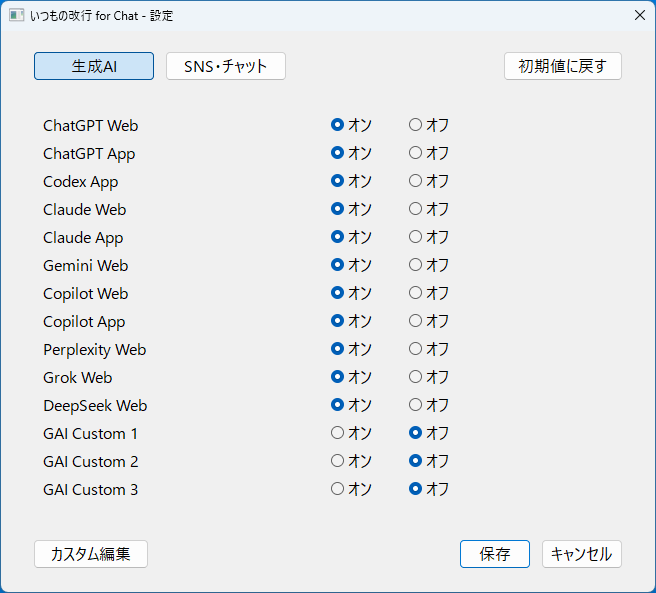
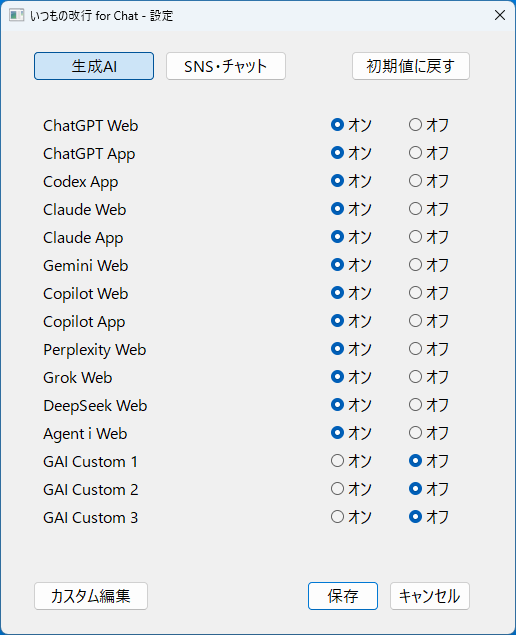
Add Agent i preset and semver release

diff --git a/itsumono_kaigyo.py b/itsumono_kaigyo.py
@@ -15,8 +15,7 @@ from pathlib import Path
 
 APP_NAME = "いつもの改行 for Chat"
 APP_NAME_EN = "LineBuddy for Chat"
-APP_VERSION = "20260628-144610"
-APP_BUILD_DATETIME = "2026-06-28 14:46:10 +09:00"
+APP_VERSION = "v1.0.0"
 DEVELOPER_NAME = "ぶんじカンパニー"
 DEVELOPER_NAME_EN = "Bunji Company"
 DEVELOPER_URL = "https://bunjicompany.com/"
@@ -741,6 +740,7 @@ BUILTIN_TARGETS = [
     TargetDefinition("perplexity_web", "Perplexity Web", "生成AI", "Web", ACTION_SHIFT_ENTER, MODE_ENTER, window_title_keywords=("perplexity",), url_keywords=("perplexity.ai",)),
     TargetDefinition("grok_web", "Grok Web", "生成AI", "Web", ACTION_SHIFT_ENTER, MODE_ENTER, window_title_keywords=("grok",), url_keywords=("grok.com", "x.com/i/grok")),
     TargetDefinition("deepseek_web", "DeepSeek Web", "生成AI", "Web", ACTION_SHIFT_ENTER, MODE_ENTER, window_title_keywords=("deepseek",), url_keywords=("deepseek.com",)),
+    TargetDefinition("agent_i_web", "Agent i Web", "生成AI", "Web", ACTION_SHIFT_ENTER, MODE_ENTER, window_title_keywords=("agent i",), url_keywords=("search.yahoo.co.jp/chat",)),
     TargetDefinition("line_app", "LINE App", "SNS・チャット", "App", ACTION_SHIFT_ENTER, MODE_ENTER, processes=("line.exe",)),
     TargetDefinition("x_web", "X Web", "SNS・チャット", "Web", ACTION_SHIFT_ENTER, MODE_OFF, window_title_keywords=("x.com", "twitter", "/ x", "- x"), url_keywords=("x.com", "twitter.com")),
     TargetDefinition("slack_web", "Slack Web", "SNS・チャット", "Web", ACTION_SHIFT_ENTER, MODE_OFF, window_title_keywords=("slack",), url_keywords=("slack.com",)),
@@ -854,8 +854,55 @@ def configured_targets(target_definition_configs, custom_target_configs):
     if isinstance(target_definition_configs, list):
         parsed_targets = parse_target_configs(target_definition_configs)
         if parsed_targets:
-            return parsed_targets
-    return list(BUILTIN_TARGETS) + parse_custom_targets(custom_target_configs)
+            targets_by_key = {target.key: target for target in parsed_targets}
+            builtin_keys = {target.key for target in BUILTIN_TARGETS}
+            default_builtin_targets = parse_target_configs([
+                target_definition_config(target)
+                for target in BUILTIN_TARGETS
+            ])
+            return [
+                targets_by_key.get(target.key, target)
+                for target in default_builtin_targets
+            ] + [
+                target for target in parsed_targets
+                if target.key not in builtin_keys
+            ]
+    return parse_target_configs([
+        target_definition_config(target)
+        for target in BUILTIN_TARGETS
+    ]) + parse_custom_targets(custom_target_configs)
+
+
+def default_builtin_target_definition_configs():
+    return [
+        target_definition_config(target)
+        for target in BUILTIN_TARGETS
+    ]
+
+
+def merge_builtin_target_definition_configs(target_definition_configs):
+    if not isinstance(target_definition_configs, list):
+        target_definition_configs = []
+    source_items = json.loads(json.dumps(target_definition_configs))
+    builtin_keys = {target.key for target in BUILTIN_TARGETS}
+    existing_by_key = {}
+    for item in source_items:
+        if not isinstance(item, dict):
+            continue
+        key = str(item.get("key", "")).strip()
+        if key and key not in existing_by_key:
+            existing_by_key[key] = item
+    merged = []
+    for item in default_builtin_target_definition_configs():
+        merged.append(existing_by_key.get(item["key"], item))
+    for item in source_items:
+        if not isinstance(item, dict):
+            merged.append(item)
+            continue
+        key = str(item.get("key", "")).strip()
+        if key not in builtin_keys:
+            merged.append(item)
+    return merged
 
 
 def target_definition_config(target):
@@ -907,7 +954,7 @@ def default_custom_target_configs():
 
 
 def default_target_definitions_config():
-    return [target_definition_config(target) for target in BUILTIN_TARGETS] + default_custom_target_configs()
+    return default_builtin_target_definition_configs() + default_custom_target_configs()
 
 
 def mode_options_for_target(target):
@@ -989,7 +1036,7 @@ def load_config():
     if not isinstance(loaded, dict):
         loaded = {}
     if config_exists:
-        target_definition_configs = loaded.get("target_definitions", [])
+        target_definition_configs = merge_builtin_target_definition_configs(loaded.get("target_definitions", []))
         custom_target_configs = loaded.get("custom_targets", [])
     else:
         target_definition_configs = default_target_definitions_config()
@@ -1012,7 +1059,7 @@ def load_config():
                 config["targets"][key] = internal_mode_from_config_for_target(target, mode)
     for target in TARGETS:
         config["targets"][target.key] = normalize_mode_for_target(target, config["targets"].get(target.key, target.default_mode))
-    if not config_exists:
+    if not config_exists or target_definition_configs != loaded.get("target_definitions", []):
         try:
             save_config(config)
         except OSError:
@@ -2174,16 +2221,14 @@ class Win32App:
             message = (
                 f"{APP_NAME_EN}\n"
                 f"Developed by {DEVELOPER_NAME_EN}\n\n"
-                f"Version: {APP_VERSION}\n"
-                f"Build date: {APP_BUILD_DATETIME}"
+                f"Version: {APP_VERSION}"
             )
             title = f"{APP_NAME_EN} - About"
         else:
             message = (
                 f"{APP_NAME}\n"
                 f"Developed by {DEVELOPER_NAME}\n\n"
-                f"バージョン: {APP_VERSION}\n"
-                f"ビルド日時: {APP_BUILD_DATETIME}"
+                f"バージョン: {APP_VERSION}"
             )
             title = f"{APP_NAME} - バージョン情報"
         user32.MessageBoxW(self.hwnd, message, title, MB_OK)
@@ -2373,8 +2418,8 @@ class Win32App:
             WS_OVERLAPPED | WS_CAPTION | WS_SYSMENU,
             CW_USEDEFAULT,
             CW_USEDEFAULT,
-            670,
-            600,
+            530,
+            642,
             self.hwnd,
             None,
             self.hinstance,
@@ -2401,14 +2446,14 @@ class Win32App:
                 CONTROL_SETTINGS_TAB_BASE + index,
             )
             self.settings_controls[f"tab_{index}"] = tab
-        self.settings_controls["reset_defaults"] = self._create_window("BUTTON", "Reset Defaults" if self._is_english() else "初期値に戻す", BS_PUSHBUTTON | WS_TABSTOP, 502, 20, 120, 30, hwnd, CONTROL_SETTINGS_RESET_DEFAULTS)
+        self.settings_controls["reset_defaults"] = self._create_window("BUTTON", "Reset Defaults" if self._is_english() else "初期値に戻す", BS_PUSHBUTTON | WS_TABSTOP, 350, 20, 120, 30, hwnd, CONTROL_SETTINGS_RESET_DEFAULTS)
         self.settings_viewport_hwnd = None
-        self.settings_scrollbar_hwnd = self._create_window("SCROLLBAR", "", SBS_VERT, 614, 72, 18, 406, hwnd, CONTROL_SETTINGS_SCROLLBAR)
+        self.settings_scrollbar_hwnd = self._create_window("SCROLLBAR", "", SBS_VERT, 470, 72, 18, 448, hwnd, CONTROL_SETTINGS_SCROLLBAR)
         self._render_settings_list()
         self._update_settings_tabs()
-        self.settings_controls["custom_edit"] = self._create_window("BUTTON", "Edit Custom" if self._is_english() else "カスタム編集", BS_PUSHBUTTON | WS_TABSTOP, 32, 508, 116, 30, hwnd, CONTROL_SETTINGS_CUSTOM_EDIT)
-        self.settings_controls["save"] = self._create_window("BUTTON", "Save" if self._is_english() else "保存", BS_DEFPUSHBUTTON | WS_TABSTOP, 458, 508, 72, 30, hwnd, CONTROL_SETTINGS_SAVE)
-        self.settings_controls["cancel"] = self._create_window("BUTTON", "Cancel" if self._is_english() else "キャンセル", BS_PUSHBUTTON | WS_TABSTOP, 540, 508, 82, 30, hwnd, CONTROL_SETTINGS_CANCEL)
+        self.settings_controls["custom_edit"] = self._create_window("BUTTON", "Edit Custom" if self._is_english() else "カスタム編集", BS_PUSHBUTTON | WS_TABSTOP, 32, 550, 116, 30, hwnd, CONTROL_SETTINGS_CUSTOM_EDIT)
+        self.settings_controls["save"] = self._create_window("BUTTON", "Save" if self._is_english() else "保存", BS_DEFPUSHBUTTON | WS_TABSTOP, 306, 550, 72, 30, hwnd, CONTROL_SETTINGS_SAVE)
+        self.settings_controls["cancel"] = self._create_window("BUTTON", "Cancel" if self._is_english() else "キャンセル", BS_PUSHBUTTON | WS_TABSTOP, 388, 550, 82, 30, hwnd, CONTROL_SETTINGS_CANCEL)
         self._update_custom_edit_button()
 
     def _apply_settings_language(self):
@@ -2483,7 +2528,7 @@ class Win32App:
             y += 28
             row_index += 1
         self.settings_scroll_offset = 0
-        self.settings_scroll_max = max(0, y - 406)
+        self.settings_scroll_max = max(0, y - 448)
         user32.SetScrollRange(self.settings_scrollbar_hwnd, SB_CTL, 0, self.settings_scroll_max, True)
         user32.SetScrollPos(self.settings_scrollbar_hwnd, SB_CTL, 0, True)
         user32.ShowWindow(self.settings_scrollbar_hwnd, SW_SHOW if self.settings_scroll_max > 0 else SW_HIDE)
@@ -2499,7 +2544,7 @@ class Win32App:
         base_x = 20
         base_y = 72
         view_top = base_y
-        view_bottom = base_y + 406
+        view_bottom = base_y + 448
         for item in self.settings_scroll_items:
             y = base_y + item["y"] - offset
             visible = y >= view_top and y + item["h"] <= view_bottom

diff --git a/README.md b/README.md
@@ -52,6 +52,7 @@ https://github.com/bunjicompany/linebuddy-for-chat/releases
 - Perplexity Web
 - Grok Web
 - DeepSeek Web
+- Agent i Web
 
 ### SNS・チャット
 
@@ -104,6 +105,15 @@ python -m venv .venv
 
 ```powershell
 .\build_exe.ps1
+```
+
+ビルド時に `APP_VERSION` が自動更新されます。既定では patch が 1 つ上がります。
+
+```powershell
+.\build_exe.ps1 -VersionBump patch
+.\build_exe.ps1 -VersionBump minor
+.\build_exe.ps1 -VersionBump major
+.\build_exe.ps1 -VersionBump none
 ```
 
 ビルド後、`dist\ItsumonoKaigyoForChat.exe` が生成されます。